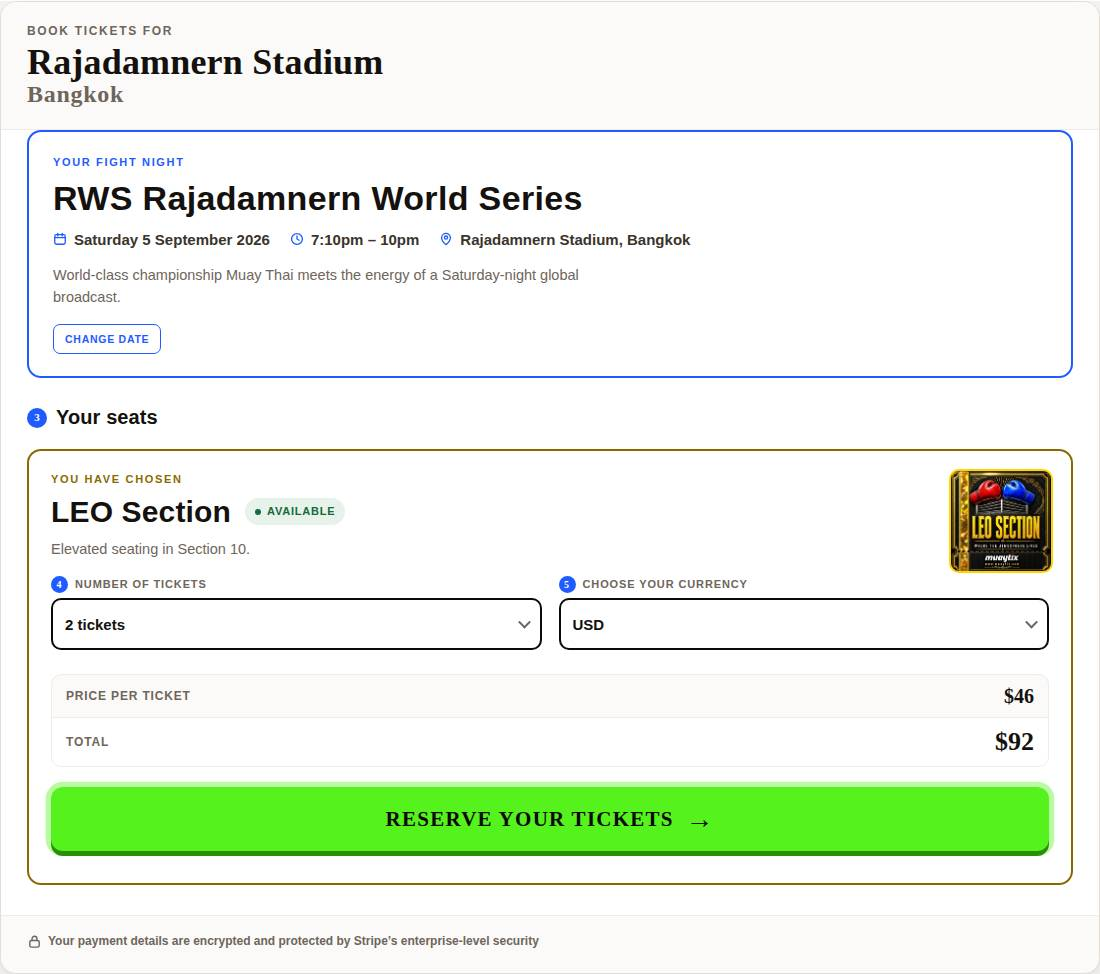
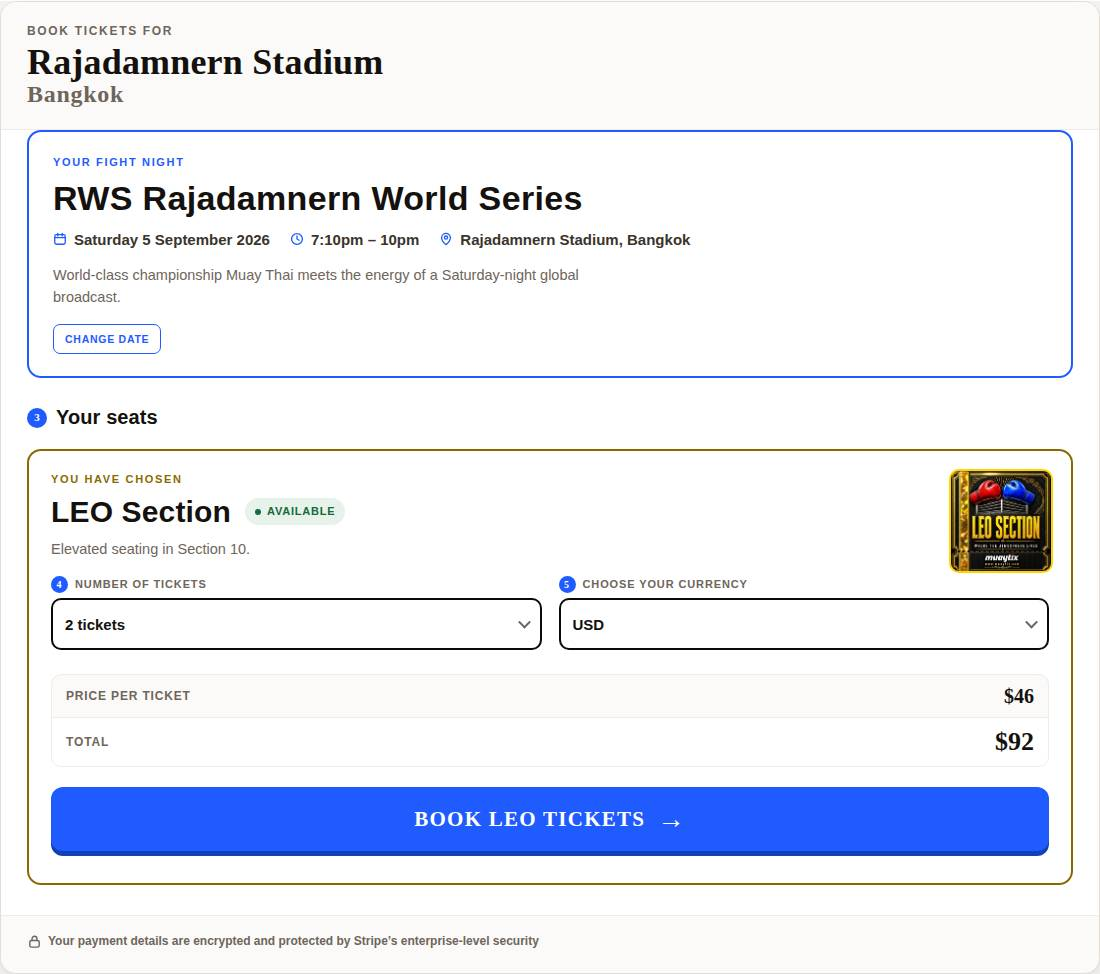
LEO page: the widget button is the page blue and says Book LEO Tickets
Jason: the label should be Book LEO Tickets, and the lime green was far too
loud and out of place. The button is now the company blue (#1F5BFF, white
type, 5.3 to 1) with the arrow and darker lower edge kept and no glow.

The widget writes its own words on that button (Reserve your tickets) and
redraws them whenever the guest changes anything, so a small observer on this
page swaps that one label for the page's CTA, taken from the copy, and touches
no other text. It sits in this page's block only: widget.js and the site header
are not changed, so nothing needs re-pasting there and no other page moves. It
is a fourth behaviour beyond the brief's three, so it is flagged for Jason.

Checked with the real widget file at 1180, 390 and 320px: all checks pass.

Claude-Session: https://claude.ai/code/session_01KJfBegVkwrLgzgRP3UNWWd

Changed region(s): [[0.0309, 0.8008, 0.9582, 0.8932]]

diff --git a/pages/leo-section/leo-source.html b/pages/leo-section/leo-source.html
@@ -285,35 +285,31 @@
 .mtx-leo-page #mtx-booking .mtx-detail-top,
 .mtx-leo-page #mtx-booking .mtx-detail-d { padding-right: 104px; }
 
-/* The one button that books. Large, full width of its panel, lime with black
-   type, an arrow and a slow glow, so it cannot be read as part of the form
-   above it. Waiting, it is a plain grey block of the same size, still
-   unmistakably a button, still saying what it is waiting for. */
+/* The one button that books. Large, the full width of its panel, in the same
+   blue as every other Book LEO Tickets button on the page, with an arrow and
+   a darker lower edge so it reads as something to press. Waiting, it is a
+   plain grey block of the same size, still a button, still saying what it is
+   waiting for. */
 .mtx-leo-page #mtx-booking .mtx-go {
   display: flex; align-items: center; justify-content: center; gap: 12px;
   width: 100%; align-self: stretch; min-height: 64px; margin-top: 8px; padding: 14px 20px;
-  background: #55F21D; color: var(--black); border: 0; border-radius: 12px;
+  background: var(--blue); color: var(--white); border: 0; border-radius: 12px;
   font-size: 21px; font-weight: 800; letter-spacing: .06em; line-height: 1.1;
-  box-shadow: 0 5px 0 #2C8D0B;
-  animation: mtx-leo-glow 2.4s ease-out infinite;
+  box-shadow: 0 5px 0 #1240B8;
+  animation: none;
   transition: transform .1s ease, box-shadow .1s ease, background-color .15s ease;
 }
 .mtx-leo-page #mtx-booking .mtx-go::after { content: "\2192"; font-size: 1.3em; line-height: 1; font-weight: 800; }
 .mtx-leo-page #mtx-booking .mtx-go:hover:not(:disabled) {
-  background: #6BFF3A; transform: translateY(-1px); box-shadow: 0 6px 0 #2C8D0B;
+  background: #1540C9; transform: translateY(-1px); box-shadow: 0 6px 0 #1240B8;
 }
-.mtx-leo-page #mtx-booking .mtx-go:active:not(:disabled) { transform: translateY(4px); box-shadow: 0 1px 0 #2C8D0B; }
+.mtx-leo-page #mtx-booking .mtx-go:active:not(:disabled) { transform: translateY(4px); box-shadow: 0 1px 0 #1240B8; }
 .mtx-leo-page #mtx-booking .mtx-go:disabled {
-  background: #E6E6E6; color: #4F4F55; border: 0; box-shadow: none; animation: none;
+  background: #E6E6E6; color: #4F4F55; border: 0; box-shadow: none;
   cursor: not-allowed; transform: none;
 }
 .mtx-leo-page #mtx-booking .mtx-go:disabled::after { content: none; }
 .mtx-leo-page #mtx-booking .mtx-go:focus-visible { outline: 3px solid var(--black); outline-offset: 3px; }
-@keyframes mtx-leo-glow {
-  0%   { box-shadow: 0 5px 0 #2C8D0B, 0 0 0 0 rgba(85, 242, 29, .6); }
-  70%  { box-shadow: 0 5px 0 #2C8D0B, 0 0 0 16px rgba(85, 242, 29, 0); }
-  100% { box-shadow: 0 5px 0 #2C8D0B, 0 0 0 0 rgba(85, 242, 29, 0); }
-}
 
 /* The field the guest has to fill before the button wakes up. Left empty it
    is outlined in blue, so the next move is the one the eye finds. */
@@ -851,6 +847,18 @@
       this.parentNode.parentNode.className = 'mtx-leo-qa' + (open ? '' : ' is-open');
     });
   }
+
+  /* 4. The widget's own button says Reserve your tickets. On this page it says
+     what the page's other buttons say. The widget writes that label again each
+     time the guest changes anything, so this watches for it and puts the
+     page's words back; it never touches any other label. */
+  var slot = document.getElementById('mtx-leo-book');
+  if (slot === null || typeof MutationObserver === 'undefined') return;
+  new MutationObserver(function () {
+    var b = slot.querySelector('[data-go]');
+    if (b === null) return;
+    if (b.textContent === 'Reserve your tickets') b.textContent = 'Book LEO Tickets';
+  }).observe(slot, { childList: true, subtree: true, characterData: true });
 })();
 </script>
 </div>

diff --git a/pages/leo-section/rajadamnern-stadium-leo-PASTE-INTO-TILDA.html b/pages/leo-section/rajadamnern-stadium-leo-PASTE-INTO-TILDA.html
@@ -214,28 +214,23 @@
 .mtx-leo-page #mtx-booking .mtx-go {
   display: flex; align-items: center; justify-content: center; gap: 12px;
   width: 100%; align-self: stretch; min-height: 64px; margin-top: 8px; padding: 14px 20px;
-  background: #55F21D; color: var(--black); border: 0; border-radius: 12px;
+  background: var(--blue); color: var(--white); border: 0; border-radius: 12px;
   font-size: 21px; font-weight: 800; letter-spacing: .06em; line-height: 1.1;
-  box-shadow: 0 5px 0 #2C8D0B;
-  animation: mtx-leo-glow 2.4s ease-out infinite;
+  box-shadow: 0 5px 0 #1240B8;
+  animation: none;
   transition: transform .1s ease, box-shadow .1s ease, background-color .15s ease;
 }
 .mtx-leo-page #mtx-booking .mtx-go::after { content: "\2192"; font-size: 1.3em; line-height: 1; font-weight: 800; }
 .mtx-leo-page #mtx-booking .mtx-go:hover:not(:disabled) {
-  background: #6BFF3A; transform: translateY(-1px); box-shadow: 0 6px 0 #2C8D0B;
+  background: #1540C9; transform: translateY(-1px); box-shadow: 0 6px 0 #1240B8;
 }
-.mtx-leo-page #mtx-booking .mtx-go:active:not(:disabled) { transform: translateY(4px); box-shadow: 0 1px 0 #2C8D0B; }
+.mtx-leo-page #mtx-booking .mtx-go:active:not(:disabled) { transform: translateY(4px); box-shadow: 0 1px 0 #1240B8; }
 .mtx-leo-page #mtx-booking .mtx-go:disabled {
-  background: #E6E6E6; color: #4F4F55; border: 0; box-shadow: none; animation: none;
+  background: #E6E6E6; color: #4F4F55; border: 0; box-shadow: none;
   cursor: not-allowed; transform: none;
 }
 .mtx-leo-page #mtx-booking .mtx-go:disabled::after { content: none; }
 .mtx-leo-page #mtx-booking .mtx-go:focus-visible { outline: 3px solid var(--black); outline-offset: 3px; }
-@keyframes mtx-leo-glow {
-  0%   { box-shadow: 0 5px 0 #2C8D0B, 0 0 0 0 rgba(85, 242, 29, .6); }
-  70%  { box-shadow: 0 5px 0 #2C8D0B, 0 0 0 16px rgba(85, 242, 29, 0); }
-  100% { box-shadow: 0 5px 0 #2C8D0B, 0 0 0 0 rgba(85, 242, 29, 0); }
-}
 
 .mtx-leo-page #mtx-booking .mtx-sel select { border: 2px solid var(--black); min-height: 52px; }
 .mtx-leo-page #mtx-booking .mtx-sel select:has(option[value=""]:checked) {
@@ -749,6 +744,18 @@
       this.parentNode.parentNode.className = 'mtx-leo-qa' + (open ? '' : ' is-open');
     });
   }
+
+  /* 4. The widget's own button says Reserve your tickets. On this page it says
+     what the page's other buttons say. The widget writes that label again each
+     time the guest changes anything, so this watches for it and puts the
+     page's words back; it never touches any other label. */
+  var slot = document.getElementById('mtx-leo-book');
+  if (slot === null || typeof MutationObserver === 'undefined') return;
+  new MutationObserver(function () {
+    var b = slot.querySelector('[data-go]');
+    if (b === null) return;
+    if (b.textContent === 'Reserve your tickets') b.textContent = 'Book LEO Tickets';
+  }).observe(slot, { childList: true, subtree: true, characterData: true });
 })();
 </script>
 </div>

diff --git a/pages/leo-section/style.css b/pages/leo-section/style.css
@@ -268,35 +268,31 @@
 .mtx-leo-page #mtx-booking .mtx-detail-top,
 .mtx-leo-page #mtx-booking .mtx-detail-d { padding-right: 104px; }
 
-/* The one button that books. Large, full width of its panel, lime with black
-   type, an arrow and a slow glow, so it cannot be read as part of the form
-   above it. Waiting, it is a plain grey block of the same size, still
-   unmistakably a button, still saying what it is waiting for. */
+/* The one button that books. Large, the full width of its panel, in the same
+   blue as every other Book LEO Tickets button on the page, with an arrow and
+   a darker lower edge so it reads as something to press. Waiting, it is a
+   plain grey block of the same size, still a button, still saying what it is
+   waiting for. */
 .mtx-leo-page #mtx-booking .mtx-go {
   display: flex; align-items: center; justify-content: center; gap: 12px;
   width: 100%; align-self: stretch; min-height: 64px; margin-top: 8px; padding: 14px 20px;
-  background: #55F21D; color: var(--black); border: 0; border-radius: 12px;
+  background: var(--blue); color: var(--white); border: 0; border-radius: 12px;
   font-size: 21px; font-weight: 800; letter-spacing: .06em; line-height: 1.1;
-  box-shadow: 0 5px 0 #2C8D0B;
-  animation: mtx-leo-glow 2.4s ease-out infinite;
+  box-shadow: 0 5px 0 #1240B8;
+  animation: none;
   transition: transform .1s ease, box-shadow .1s ease, background-color .15s ease;
 }
 .mtx-leo-page #mtx-booking .mtx-go::after { content: "\2192"; font-size: 1.3em; line-height: 1; font-weight: 800; }
 .mtx-leo-page #mtx-booking .mtx-go:hover:not(:disabled) {
-  background: #6BFF3A; transform: translateY(-1px); box-shadow: 0 6px 0 #2C8D0B;
+  background: #1540C9; transform: translateY(-1px); box-shadow: 0 6px 0 #1240B8;
 }
-.mtx-leo-page #mtx-booking .mtx-go:active:not(:disabled) { transform: translateY(4px); box-shadow: 0 1px 0 #2C8D0B; }
+.mtx-leo-page #mtx-booking .mtx-go:active:not(:disabled) { transform: translateY(4px); box-shadow: 0 1px 0 #1240B8; }
 .mtx-leo-page #mtx-booking .mtx-go:disabled {
-  background: #E6E6E6; color: #4F4F55; border: 0; box-shadow: none; animation: none;
+  background: #E6E6E6; color: #4F4F55; border: 0; box-shadow: none;
   cursor: not-allowed; transform: none;
 }
 .mtx-leo-page #mtx-booking .mtx-go:disabled::after { content: none; }
 .mtx-leo-page #mtx-booking .mtx-go:focus-visible { outline: 3px solid var(--black); outline-offset: 3px; }
-@keyframes mtx-leo-glow {
-  0%   { box-shadow: 0 5px 0 #2C8D0B, 0 0 0 0 rgba(85, 242, 29, .6); }
-  70%  { box-shadow: 0 5px 0 #2C8D0B, 0 0 0 16px rgba(85, 242, 29, 0); }
-  100% { box-shadow: 0 5px 0 #2C8D0B, 0 0 0 0 rgba(85, 242, 29, 0); }
-}
 
 /* The field the guest has to fill before the button wakes up. Left empty it
    is outlined in blue, so the next move is the one the eye finds. */

diff --git a/pages/leo-section/tail.html b/pages/leo-section/tail.html
@@ -53,6 +53,18 @@
       this.parentNode.parentNode.className = 'mtx-leo-qa' + (open ? '' : ' is-open');
     });
   }
+
+  /* 4. The widget's own button says Reserve your tickets. On this page it says
+     what the page's other buttons say. The widget writes that label again each
+     time the guest changes anything, so this watches for it and puts the
+     page's words back; it never touches any other label. */
+  var slot = document.getElementById('mtx-leo-book');
+  if (slot === null || typeof MutationObserver === 'undefined') return;
+  new MutationObserver(function () {
+    var b = slot.querySelector('[data-go]');
+    if (b === null) return;
+    if (b.textContent === 'Reserve your tickets') b.textContent = '@@CTA_LABEL@@';
+  }).observe(slot, { childList: true, subtree: true, characterData: true });
 })();
 </script>
 </div>
